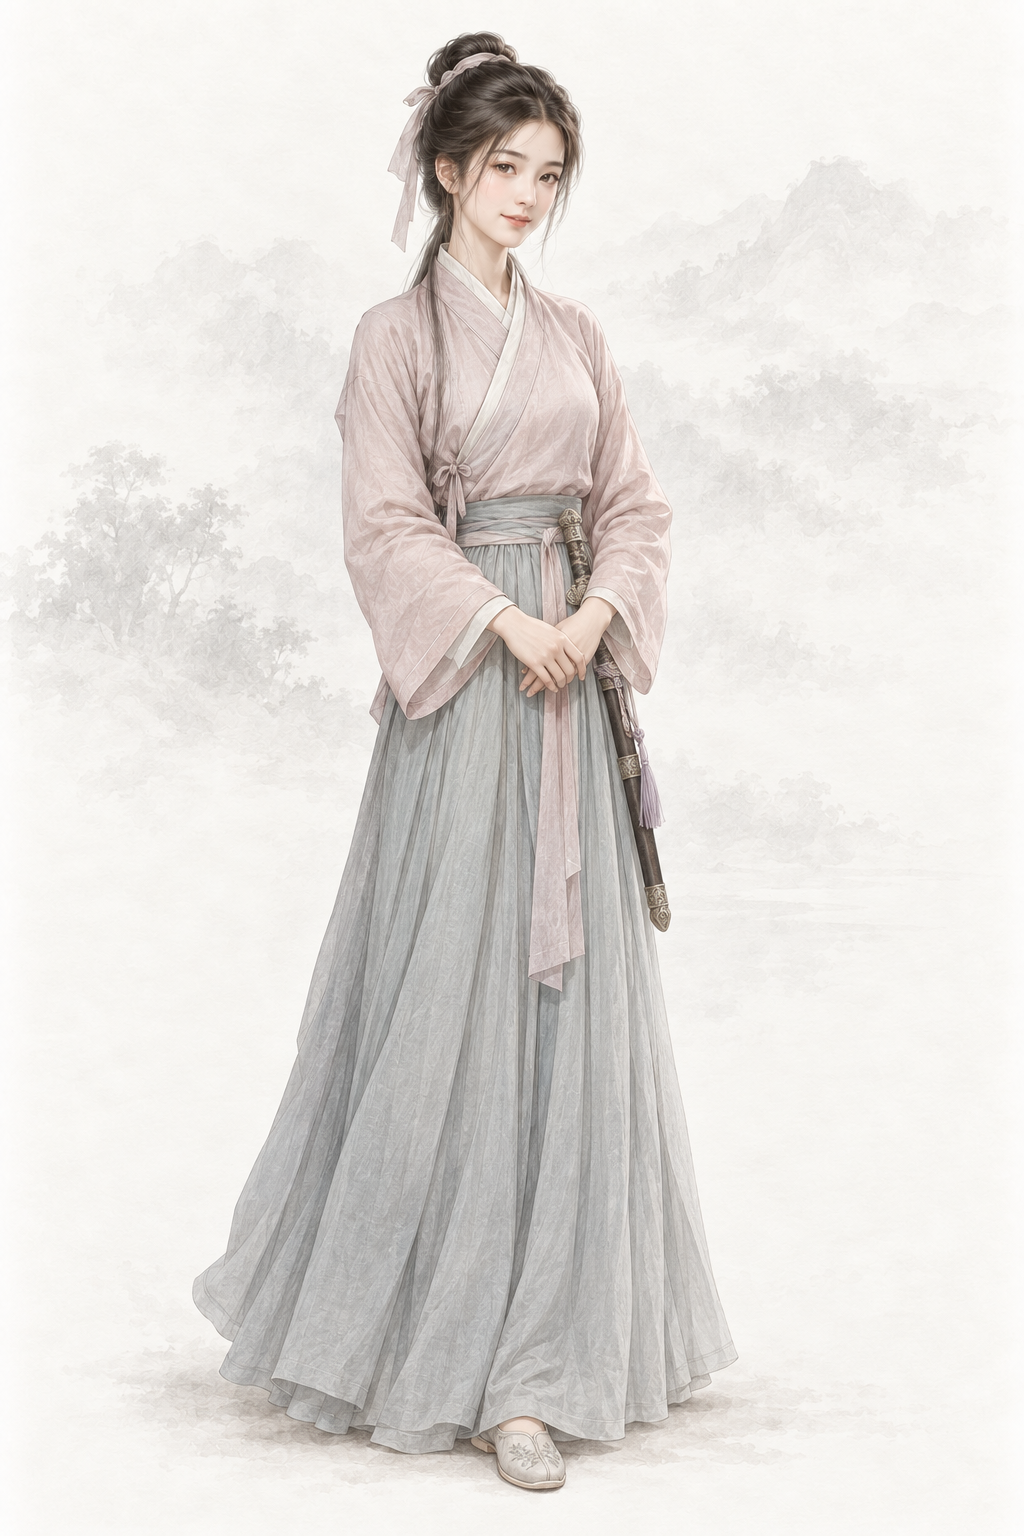
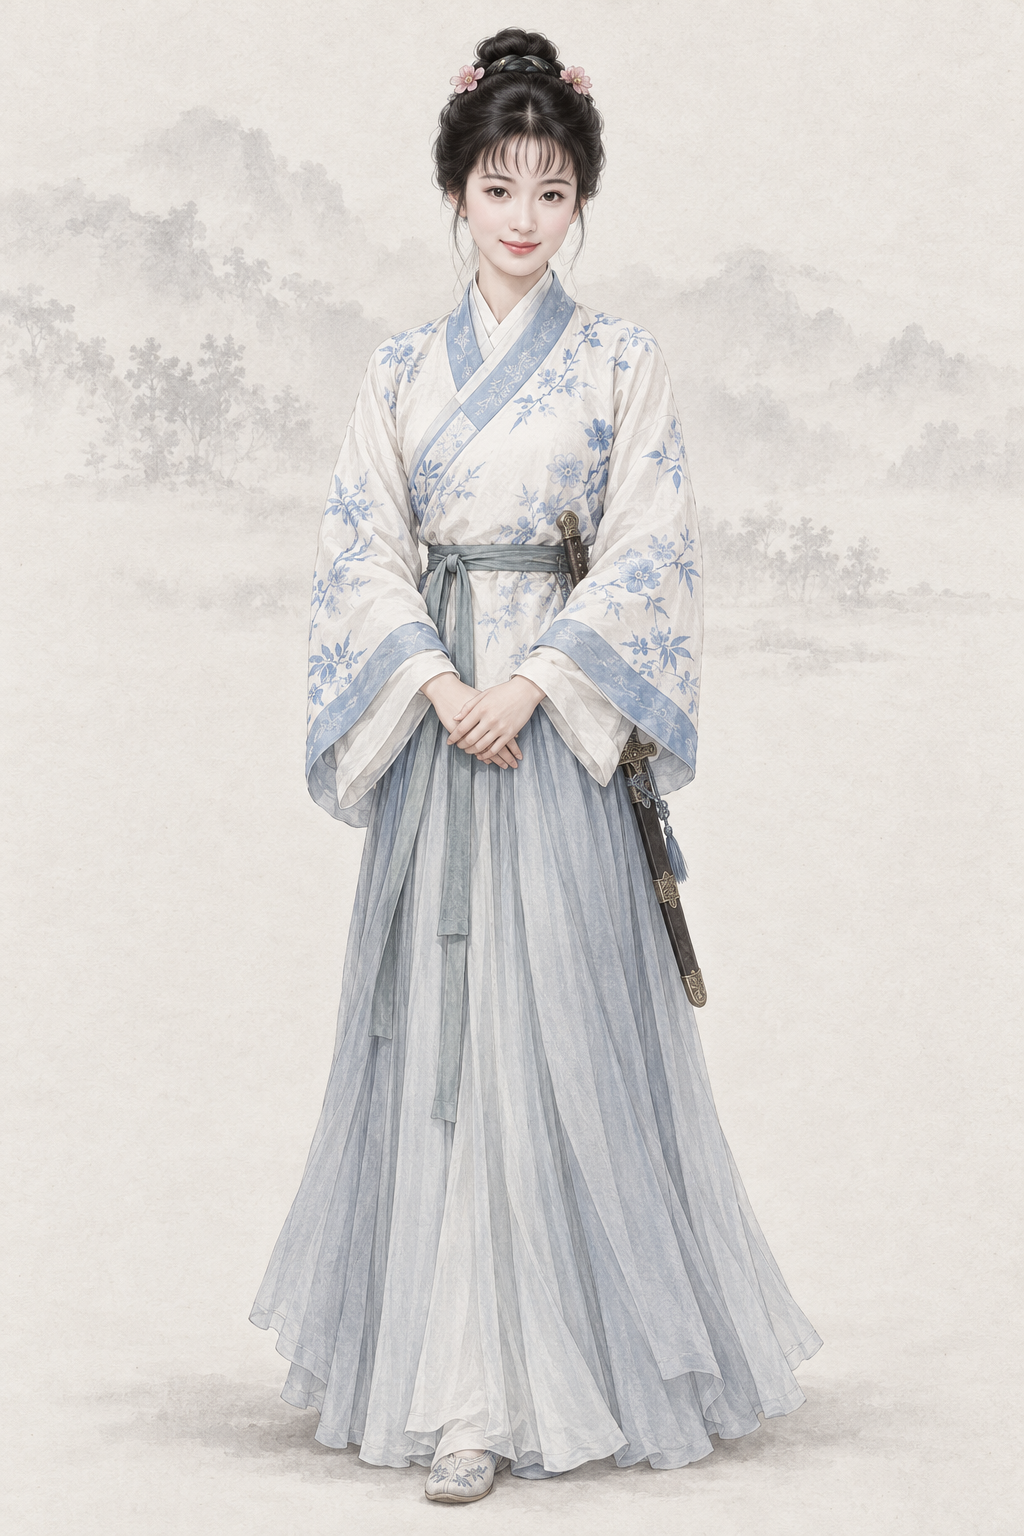
assets(character): por_npc_shuanger__ch08_youth_base 双儿（codex · AR-32 经典剧照重出）
1998 年 TVB《鹿鼎记》剧照 1 张 + 基线；提示词写回「## Gemini 提示词」，上一版留作历史，frontmatter 加 classic_ref。

diff --git a/assets/default/prompts/characters/ch08-luding/npc_shuanger.md b/assets/default/prompts/characters/ch08-luding/npc_shuanger.md
@@ -17,15 +17,42 @@ references:
   use: 第三参考仅背景：极浅低对比水墨远山、暖浅灰纸底、薄雾与留白；已实际view。完全忽略其中王语嫣面孔、倾头转身、女性体态、白青薄纱裙装、发饰与飘带；墨痕纸纹不得侵入双儿的人体衣物或器物。
 status: redo
 redo_reason: "现图头大身小、双髻配厚粉底戏装脸，像九十年代剧照；旧图以 1998 年剧集剧照为面部身份参考生成，有复刻真人面容的风险（本轮口径禁止）。改为约二十岁、温柔忠心的成年侍女。"
-reference_upload:
-- assets/default/baseline/character/female/ref_npc_wangyuyan__ch01_base01.png
 realism_revision: user_identity_pose_20261001
 codex_prompt_rev: 2026-10-02
+classic_ref:
+  version: "1998 年 TVB《鹿鼎记》"
+  stills:
+  - ".agents/coord/imagegen-reference/identity-20261001/luding/shuanger_1998_chenshaoxia.jpg"
+  note: "剧照缩到长边 1024 的 JPEG 上传，放在两张同性别基线之前（AR-32）"
+reference_upload:
+- .agents/coord/imagegen-reference/identity-20261001/luding/shuanger_1998_chenshaoxia.jpg
+- assets/default/baseline/character/female/ref_npc_wangyuyan__ch01_base01.png
+- assets/default/baseline/character/female/ref_npc_xiaolongnv__ch03_base01.png
 ---
 
 # 双儿 · 人物写实修正
 
 ## Gemini 提示词
+
+> 2026-10-02 AR-32 经典剧照重出（6 号出图员，codex exec · image_gen 出图）：上传该角色经典影视版剧照 1 张（1998 年 TVB《鹿鼎记》：shuanger_1998_chenshaoxia.jpg）在前、两张同性别基线在后。剧照只借鉴发型、服饰、配色、标志道具、气质与面部特征，重新绘制成项目画风，不照搬照片的构图、光影和姿势；人物一律成年。提示词里不写演员名。上一版提示词保留在下一节作历史。
+
+```text
+生成一张 2:3 竖幅全身人物立绘：单人、单一视角、完整全身——头顶、双手、双脚和手中器物的两端都在画面内，四周留出自然空白；人物站姿自然，身体基本朝向正面，头部端正（不歪头、不仰不俯），镜头平视。
+【参考图】随提示词上传 3 张参考图。第 1 张参考图是该角色经典影视造型的剧照：借鉴其发型、服饰、配色、标志道具、气质和面部特征，让人一眼认出是这个角色；但必须重新绘制成项目画风，不要照片质感，不要照搬剧照的构图、光影、背景和姿势，也不要做成照片修图。剧照与下文文字不一致的地方（年龄、所处阶段、帽饰与衣装细节、手中器物），以下文文字为准；画中人一律是成年人。最后两张是本项目画风基线：画风、用色、光线、质感和暖浅灰纸底加淡水墨背景以它们为准。
+【画风】写实手绘古风人物插画，与本项目写实武侠角色立绘同一画风，像功力深厚的画师用细腻笔触画出的真实美人。手绘插画质感，不是 CG 渲染：不要过度光滑的皮肤、完美对称的五官、塑料高光、过度锐利的发丝；保留自然的笔触和细微不完美。肌肤细腻自然，看得见极细的肤理和自然的左右不对称，不磨皮、不油亮、不打粉；头发是一缕缕自然的发丝和少量碎发；布料看得出经纬纹理、厚薄和自然垂坠的褶皱，干净完整；整体设色低饱和、雅致；柔和的自然光从左上方照来，明暗过渡自然，不打舞台光、轮廓光或美颜柔光。不是照片，不是三维渲染，不是动漫或游戏 CG，也不是油画（没有厚涂笔触和画布纹理）。
+【背景】不透明的暖浅灰色纸底，只在远处有极淡的水墨远山和薄雾，大面积留白；人物与背景明暗分明、轮廓边缘干净完整（后续要自动抠图），水墨和纸纹只在背景里，不侵入人物和衣服；脚下只有很淡的一点接触阴影。
+【人物】双儿，《鹿鼎记》中庄家送给韦小宝的侍女，此后一路随他同行、贴身护持的时期。
+【年龄与体态】外观约二十岁的成年年轻女子，身材娇小玲珑但为成人比例，体态轻灵。
+【经典造型】要一眼认出是双儿——白底蓝花短袄、青灰裙、圆髻簪粉色小绒花、腰佩短剑，温柔体贴、笑起来很甜，一心护着人；秀美可人的成年女子。
+【面容】脸以剧照为底子——保留剧照里这个角色的脸型、眉眼、鼻唇的比例关系和神气，画成成年人；温柔秀美的鹅蛋脸，面颊柔和；眉毛细长平缓；眼睛温柔明亮，带着体贴、羞涩和一心一意的忠诚；鼻子小巧；嘴唇薄而柔和，笑起来很甜；肤色白净透着健康的红润，有真实的皮肤纹理。温柔体贴、善良忠心，又有一身好武功。
+【发式】黑发在头顶挽成一个圆髻，髻边簪两朵粉色小绒花，额前一层薄薄的碎刘海；不梳双丫髻。
+【服饰】清初江南汉族女子装束——白底淡蓝花纹的交领短袄（右衽，袖口略宽）、青灰长裙、窄腰带、软底布鞋，朴素整洁。
+【道具与姿态】腰侧佩一柄连鞘短剑；双手轻轻交握在身前；安静站立，随时准备护着人。
+【不要】画面里不要任何文字、题款、印章、签名、水印、台标、边框、分格或多视图；不要第二个人；不要幼态（童颜、娃娃脸、婴儿肥、儿童或少年身材、大头小身）；不要塑料感皮肤、磨皮美颜、网红脸（尖下巴大眼高鼻的模板脸）、过度对称、浓妆、偶像式打光、蜡像感；不要照片质感、三维渲染或动漫大眼；不要歪头、斜镜头；不要多指、缺指（设定的伤残除外）、手与器物粘连或悬空；汉式交领必须右衽（穿着者的左襟压在右襟上），不要左衽（设定为少数民族服制的除外），不要水平镜像；不要现代物品、日式服饰或日本刀、发光特效、法阵或能量光。不要照片或照片修图的质感，不要照搬剧照的构图、光影、背景和姿势，不要剧照里的字幕、台标和水印。不要孩子气的脸、头大身小；不要双丫髻；不要厚粉底的戏装脸。清初汉族女子仍穿明式袄裙：汉式交领一律右衽（穿着者左襟压右襟），不要左衽、不要水平镜像。
+【画风基线】随提示词上传的参考图里，最后两张是本项目的立绘画风基线：只参考它们的画风、用色、光线、质感和暖浅灰纸底加淡水墨的背景处理，整体画风必须与它们一致——精细写实的数字手绘插画，不是油画，不要厚涂笔触和画布纹理。基线图只取画风，不取长相：不要照搬基线图里人物的长相、年龄、发型、服饰和姿势。
+```
+
+## 上一版 Gemini 提示词（2026-10-02 文字版；AR-32 经典剧照重出前，历史，不再用于出图）
 
 > 2026-10-02 Codex 人物线 2 号（AR-31）：在审核组稿上补一行「经典形象」（借鉴公认经典造型的发式、装束、配色、标志道具与气质，只写文字，不写演员名、不上传剧照），并补去 AI 化要求。本轮出图用下面第一个代码块；审核组原稿保留在其后的「审核组原稿」小节作历史。
 
